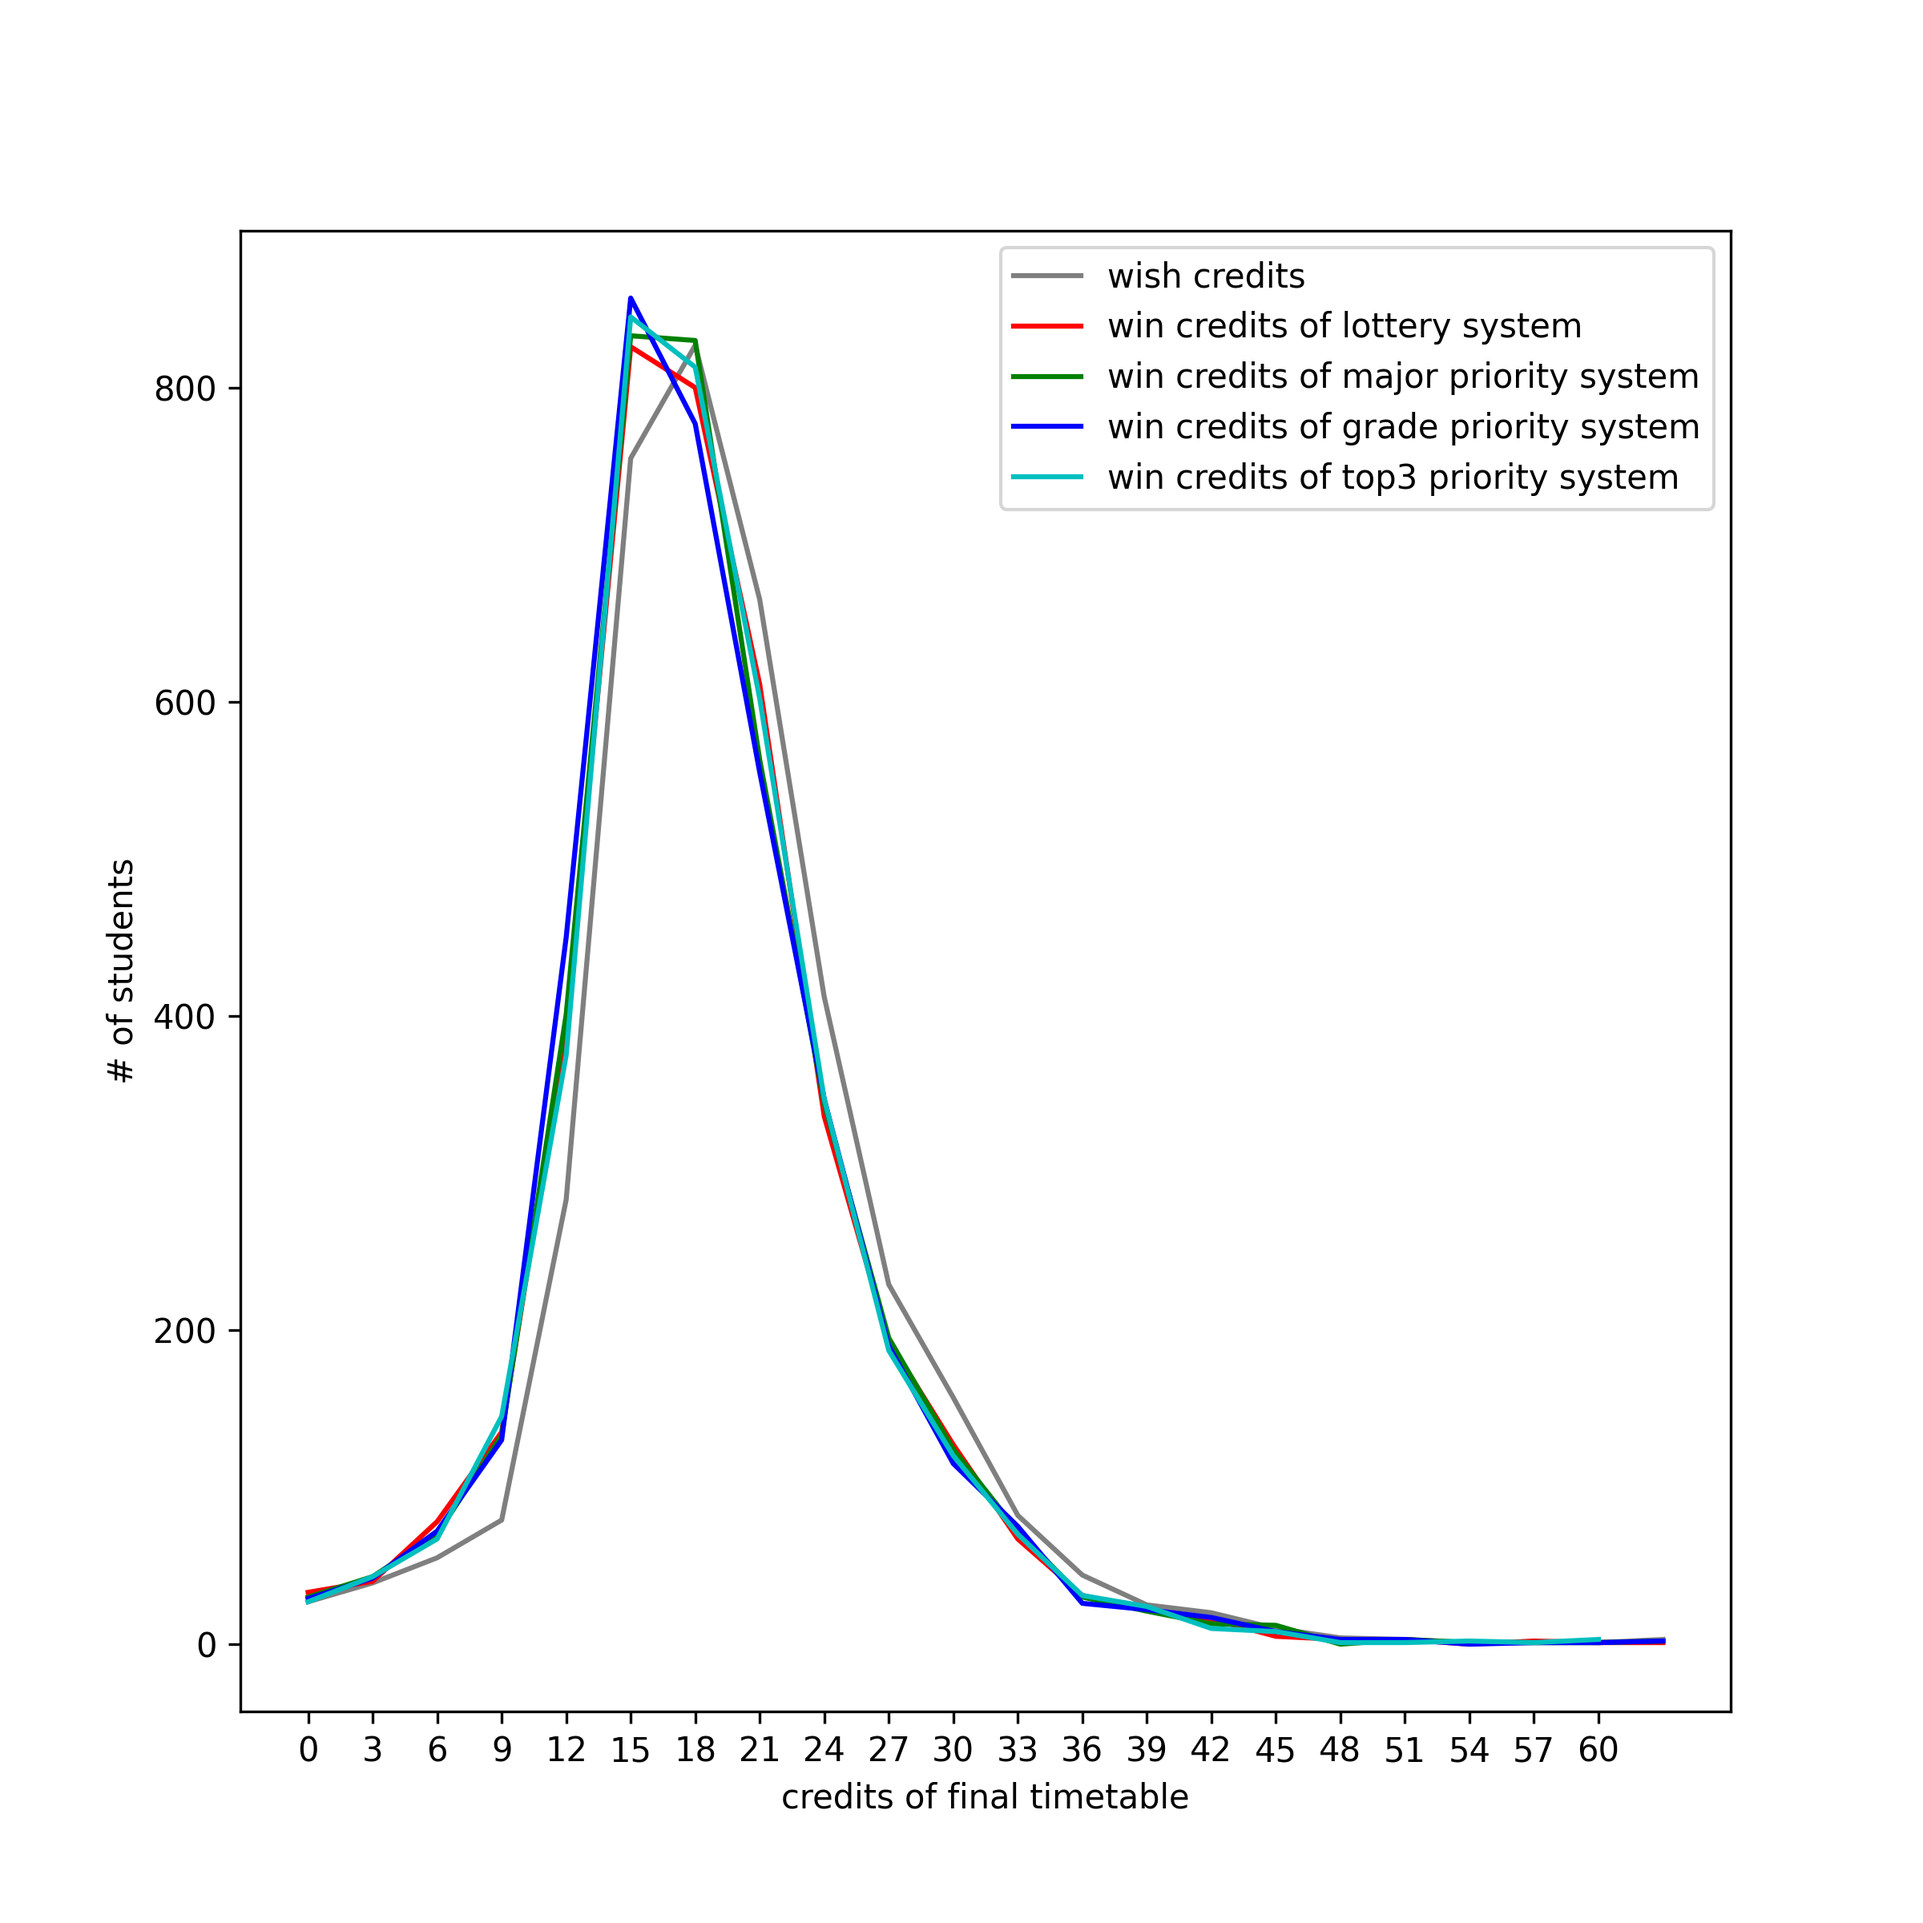
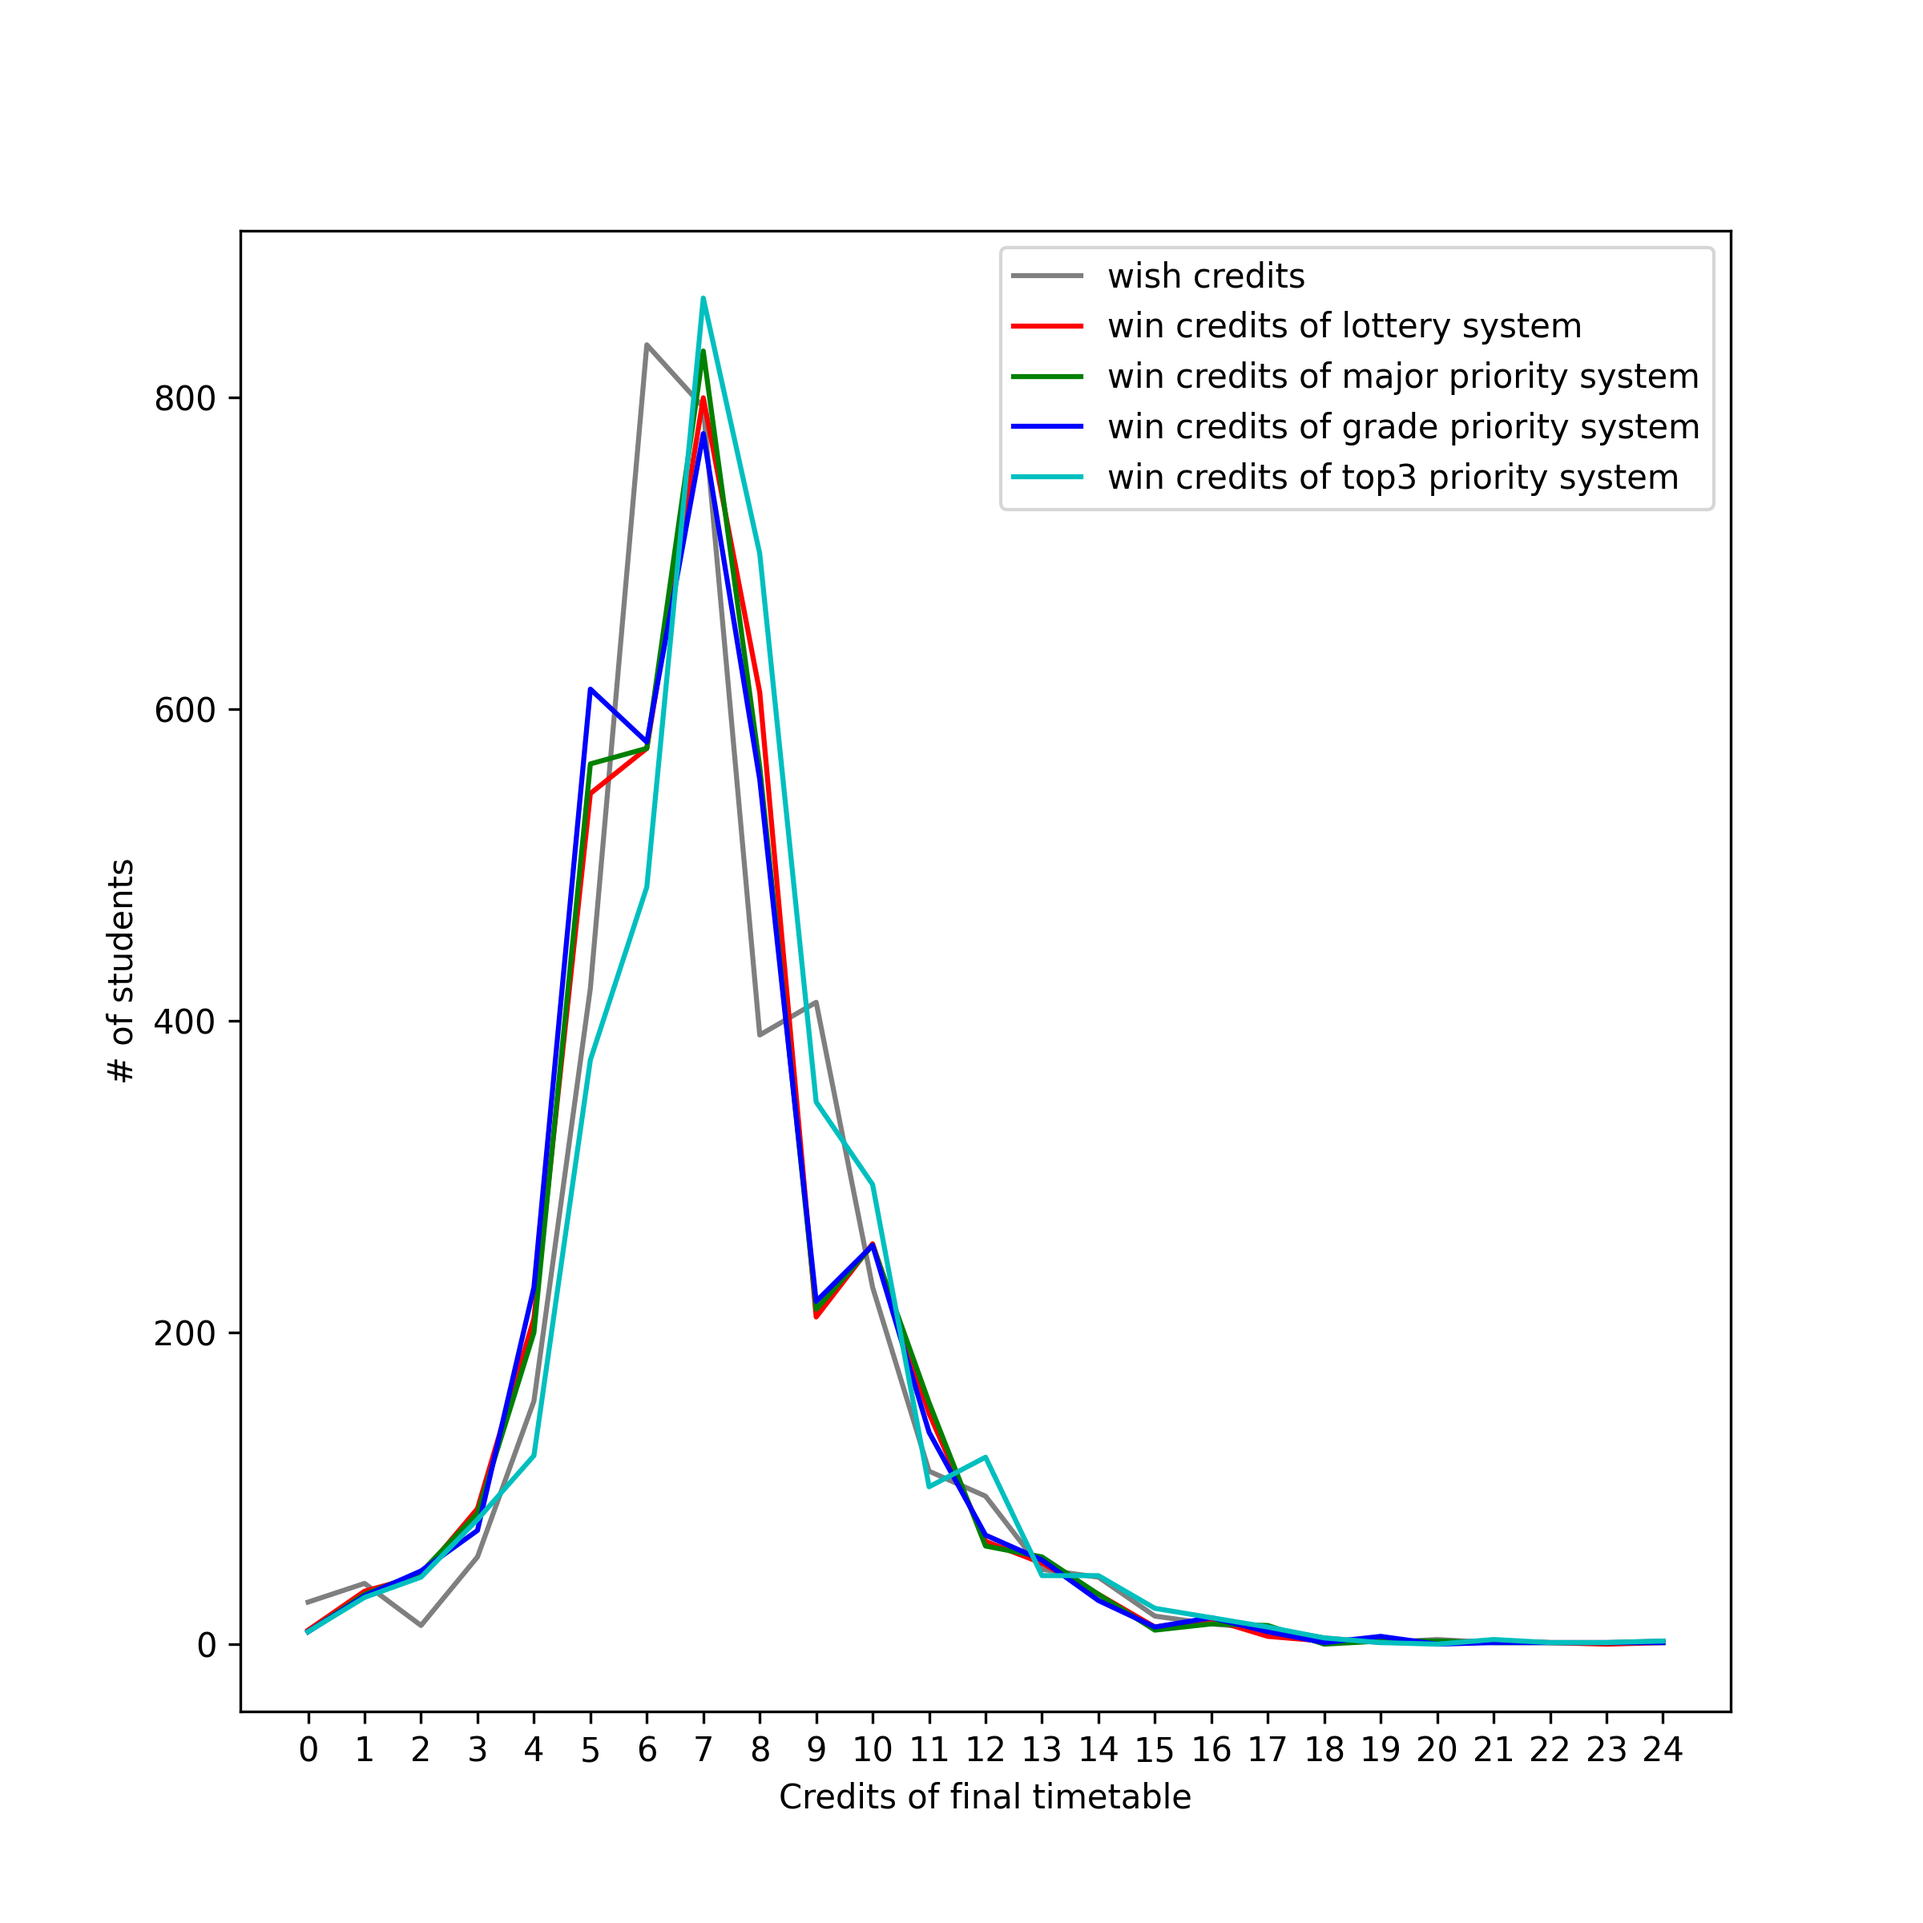
credit range reduce to 24 & reduce font size of major distribution

diff --git a/visualization/metrics/credit_distribution.py b/visualization/metrics/credit_distribution.py
@@ -13,6 +13,8 @@ def sum_credits(timetable):
 def credit_distribution(results):
     # save the value % of students who finally get over 9 credits
     df = pd.DataFrame(index=['wish']+list(results.keys()))
+    # maximum credit that is shown in the graph
+    MAX_CREDIT = 25
 
     plt.clf()
     plt.figure(figsize=(8,8))
@@ -34,9 +36,10 @@ def credit_distribution(results):
     
     df.loc['wish', ">= 9 credits (%)"] = round(over_standard / all_students * 100, 2)
 
-    bins = int(max(wish_credits)/3)
+    
+    bins = int(MAX_CREDIT)
     histogram, _ = np.histogram(wish_credits, bins = bins)
-    plt.plot(range(bins), list(histogram), color=COLOR.ELSE, alpha = 0.5, label = "wish credits")
+    plt.plot(range(bins), list(histogram[:MAX_CREDIT]), color=COLOR.ELSE, alpha = 0.5, label = "wish credits")
     
     # get win credit for each system
     for system in results:
@@ -53,13 +56,13 @@ def credit_distribution(results):
                     over_standard += 1
 
         df.loc[system, ">= 9 credits (%)"] = round(over_standard / all_students * 100, 2)
-
-        bins = int(max(final_credits)/3)
-        histogram, _ = np.histogram(final_credits, bins = bins)
-        plt.plot(range(bins), list(histogram), color=COLOR.value_of(system), label = "win credits of "+system+" system")
         
-    plt.xticks(range(bins), [i*3 for i in range(bins)])
-    plt.xlabel("credits of final timetable")
+        bins = int(MAX_CREDIT)
+        histogram, _ = np.histogram(final_credits, bins = bins)
+        plt.plot(range(bins), list(histogram[:MAX_CREDIT]), color=COLOR.value_of(system), label = "win credits of "+system+" system")
+        
+    plt.xticks(range(bins))
+    plt.xlabel("Credits of final timetable")
     plt.ylabel("# of students")
     plt.legend(loc='upper right')
     plt.savefig('result/credit_distribution.png', dpi=300)
@@ -84,3 +87,4 @@ def credit_comparison_ratio(results):
     # plt.legend()
     # #plt.show()
     # plt.savefig('visualization/result/credit_comparison.png', dpi=300)
+    pass

diff --git a/visualization/metrics/major_prioirty.py b/visualization/metrics/major_prioirty.py
@@ -124,9 +124,9 @@ def major_distribution(results):
         plt.bar(x, df['no_major'], bottom =  df['major']+df['double_major']+df['minor'], color = 'c', width=0.2, label='non major')
 
         plt.xticks(x, ['wish']+systems)
-        plt.xlabel('system', fontsize = 25)
-        plt.ylabel('# of students', fontsize = 25)
+        plt.xlabel('System', fontsize = 12)
+        plt.ylabel('# of students', fontsize = 12)
         major_name = str(major).removeprefix('Major.')
         plt.legend()
-        plt.title("Major distribution for "+major_name+" major")
+        plt.title("Major distribution for "+major_name+" major", fontsize = 15)
         plt.savefig('result/major_distribution_'+major_name+'_major.png', dpi=300)

diff --git a/main.py b/main.py
@@ -4,8 +4,6 @@ from registration.registration_system import *
 from util.parse import parse_course_file, parse_student_file, generate_course_type_enum
 from visualization.evaluation import evaluation
 
-import pickle
-
 if __name__ == "__main__":
     courses_dict = parse_course_file("2021 정규학기 과목별 추첨여부.xlsx", "2021 봄학기 과목.xls", Semester.SPRING)
     students_dict = parse_student_file("2021 정규학기 수강신청 내역.xlsx", courses_dict, Semester.SPRING)
